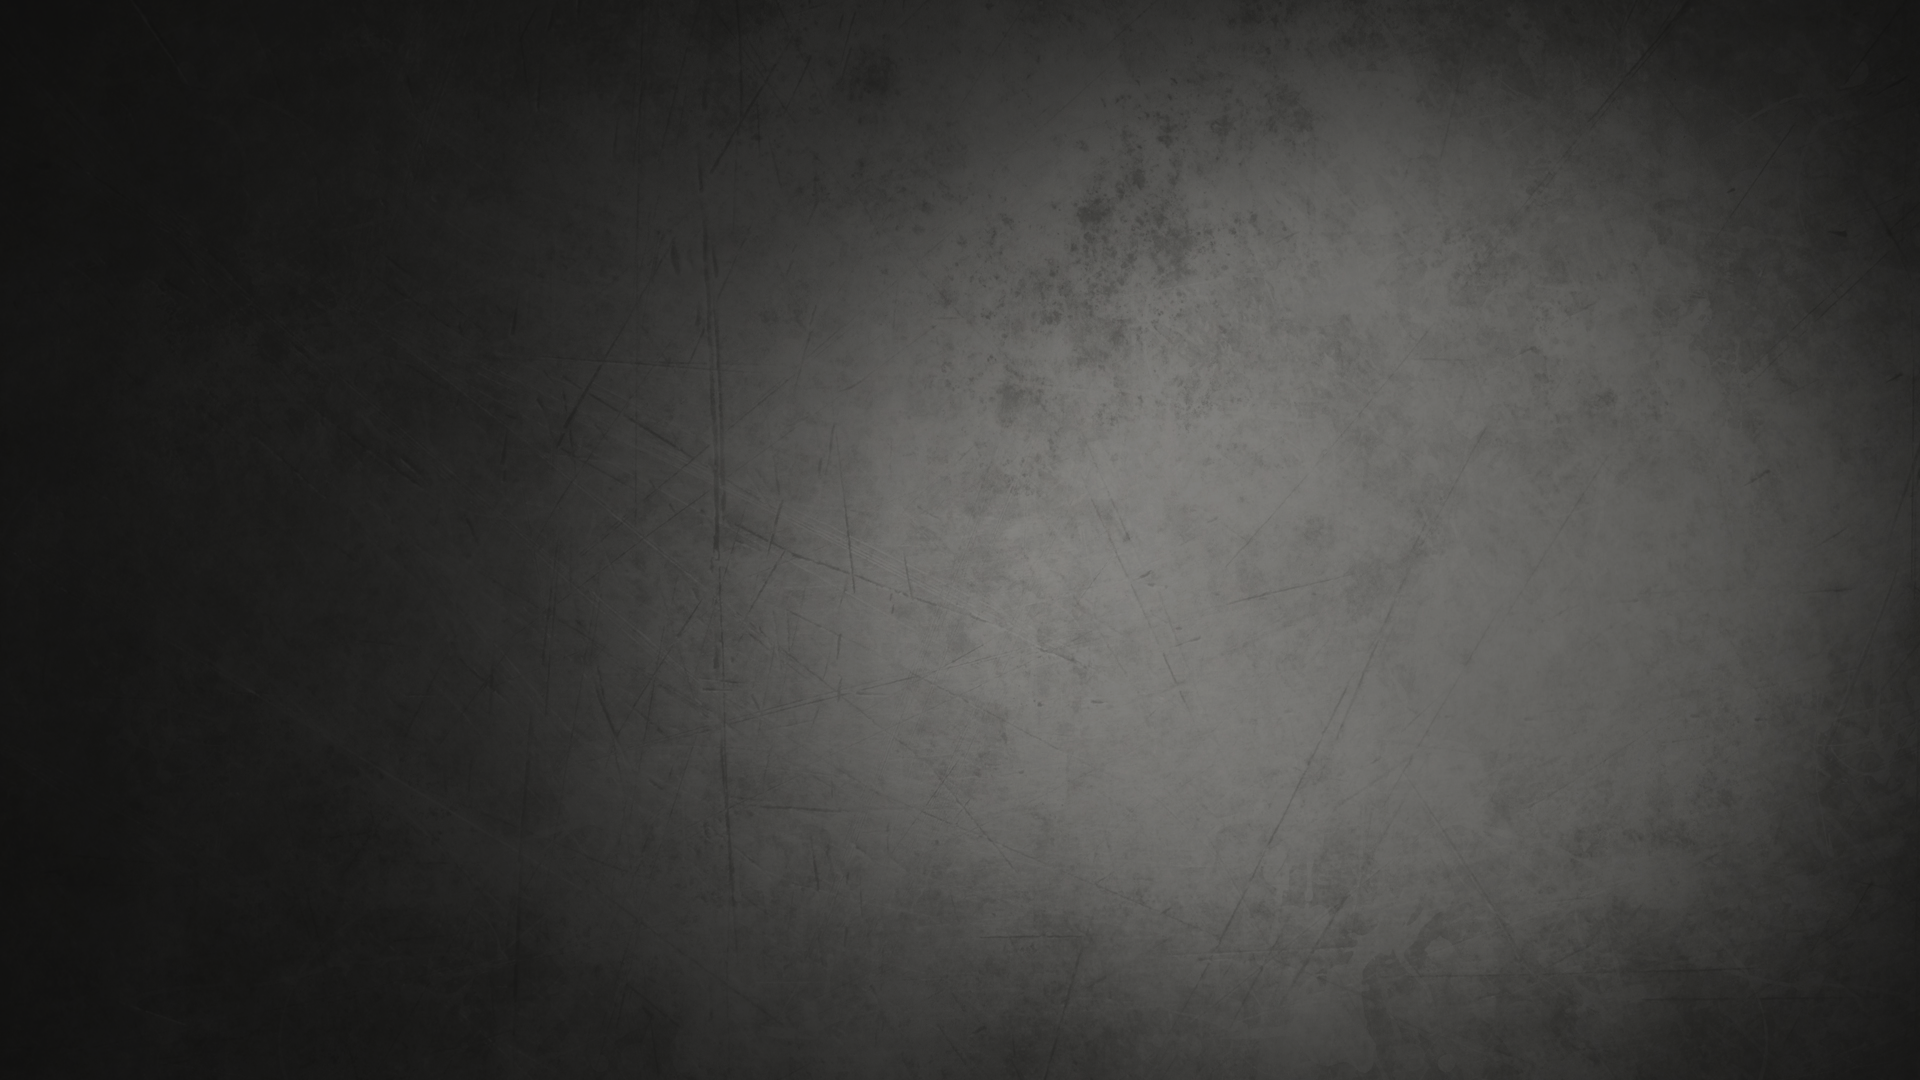
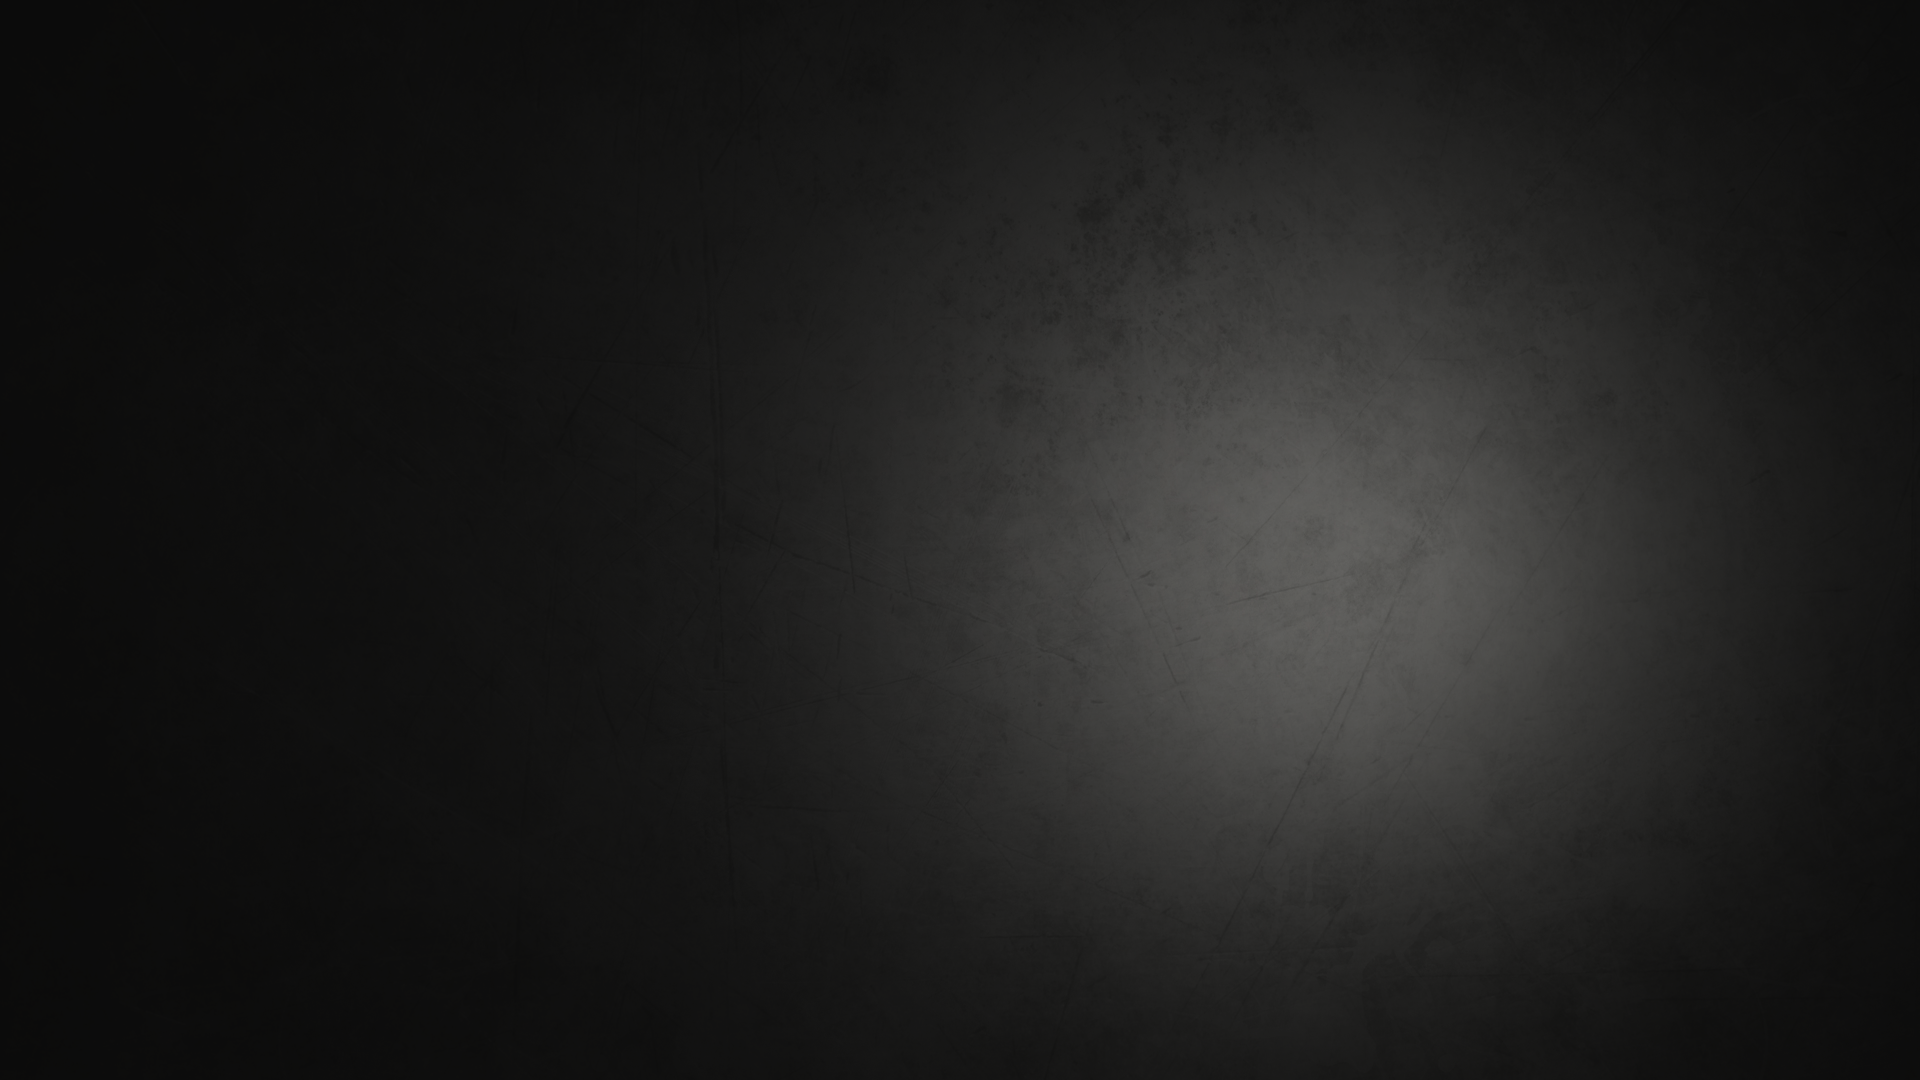
uploaded images

diff --git a/src/pages/Home.jsx b/src/pages/Home.jsx
@@ -1,29 +1,61 @@
 import React from 'react';
 
 import utik1 from '../assets/images/utik_1.png';
+import leg1 from '../assets/images/leg1.png';
 import logo from '../assets/images/logo2.png';
-import video from '../assets/video.mp4'
+import video from '../assets/video.mp4';
 
 export const Home = () => {
 	return (
 		<>
-			<section className='video-block'>
-				<img src={logo} alt="лого" />
-				<video className="video" src={video} autoPlay loop muted/>
+			<section className='device video-block'>
+				<img src={logo} alt='лого' />
+				<video className='video' src={video} autoPlay loop muted />
 			</section>
-			<section className='main-block'>
+			<section className='device iron-block'>
 				<div className='container'>
-					<div className='main-block__left'>
-						<h1>Умная гладильная система из Италии класса люкс</h1>
+					<div className='iron-block__left'>
+						<h1>
+							Гладильная система <b>Melia Gold</b>
+						</h1>
+						<p>
+							Это три прибора в одном: утюг, отпариватель для
+							одежды и гладильная доска. Гладильная доска с
+							функциями поддува и отвода пара, сенсорное
+							управление, давление пара – 6 Бар, классический
+							дизайн и оптимальная конструкция (в форме
+							передвижного столика на колесиках) – все это
+							гарантирует профессиональный результат глажения с
+							минимальными усилиями.
+						</p>
 						<button>Подробное</button>
 					</div>
-
-					<div className='main-block__right'>
+					<div className='iron-block__right'>
 						<img src={utik1} alt='утюг' />
 					</div>
 				</div>
 			</section>
-			<section className='back-massager'></section>
+			<section className='device leg-massager-block'>
+				<div className='container'>
+					<div className='leg-massager-block__left'>
+						<img src={leg1} alt='утюг' />
+					</div>
+					<div className='leg-massager-block__right'>
+						<h1>Массажер для ног</h1>
+						<p>
+							Это три прибора в одном: утюг, отпариватель для
+							одежды и гладильная доска. Гладильная доска с
+							функциями поддува и отвода пара, сенсорное
+							управление, давление пара – 6 Бар, классический
+							дизайн и оптимальная конструкция (в форме
+							передвижного столика на колесиках) – все это
+							гарантирует профессиональный результат глажения с
+							минимальными усилиями.
+						</p>
+						<button>Подробное</button>
+					</div>
+				</div>
+			</section>
 		</>
 	);
 };

diff --git a/src/style.scss b/src/style.scss
@@ -64,24 +64,24 @@ header {
 		left: 0;
 		right: 0;
 		bottom: 0;
-		background-color: rgba(0, 0, 0, 0.6);
+		background-color: rgba(0, 0, 0, 0.7);
 	}
 	video {
 		width: 100%;
 		height: 100vh;
 		object-fit: cover;
 	}
-	img { 
+	img {
 		position: absolute;
 		z-index: 10;
 		top: 50%;
 		left: 50%;
-		transform: translate(-50%,-50%);
-		width:50%;
+		transform: translate(-50%, -50%);
+		width: 50%;
 	}
 }
-.main-block {
-	background-image: url('./assets/images/03_back.png');
+.iron-block {
+	background-image: url('./assets/images/05_back.png');
 	height: 100vh;
 	background-size: cover;
 	background-repeat: no-repeat;
@@ -91,7 +91,7 @@ header {
 		display: flex;
 		align-items: center;
 		height: inherit;
-		.main-block__left {
+		.iron-block__left {
 			width: 50%;
 			h1 {
 				font-family: 'Akzidenz-Grotesk', sans-serif;
@@ -100,16 +100,22 @@ header {
 				font-weight: 900;
 				margin-top: -90px;
 			}
+			p {
+				letter-spacing: 0.3px;
+				font-size: 18px;
+				font-family: 'Akzidenz-Grotesk', sans-serif;
+			}
 			button {
 				padding: 13px 33px;
 				background: transparent;
 				color: white;
-				border: 1px solid #16faff;
+				border: 2px solid #16faff;
 				border-radius: 30px;
 				margin-top: 50px;
 			}
 		}
-		.main-block__right {
+		.iron-block__right {
+			width: 50%;
 			display: flex;
 			justify-content: right;
 			img {
@@ -118,4 +124,78 @@ header {
 			}
 		}
 	}
+}
+
+.leg-massager-block {
+	background-image: url('./assets/images/06_back.png');
+	height: 100vh;
+	background-size: cover;
+	background-repeat: no-repeat;
+	background-position: center center;
+
+	.container {
+		display: flex;
+		align-items: center;
+		height: inherit;
+		.leg-massager-block__left {
+			width: 50%;
+			display: flex;
+			justify-content: left;
+			img {
+				width: 70%;
+				filter: drop-shadow(8px 11px 8px hsla(0deg, 0%, 0%, 0.7));
+			}
+		}
+		.leg-massager-block__right {
+			width: 50%;
+			text-align: right;
+			h1 {
+				font-family: 'Akzidenz-Grotesk', sans-serif;
+				font-size: 48px;
+				line-height: 1.7;
+				font-weight: 900;
+				margin-top: -90px;
+			}
+			p {
+				letter-spacing: 0.3px;
+				font-size: 18px;
+				font-family: 'Akzidenz-Grotesk', sans-serif;
+			}
+			button {
+				padding: 13px 33px;
+				background: transparent;
+				color: white;
+				border: 2px solid #16faff;
+				border-radius: 30px;
+				margin-top: 50px;
+			}
+		}
+	}
+}
+.footer {
+	padding: 30px 0;
+	background-color: #232323;	
+	.col{
+		ul {
+			padding-left: 0;
+			margin-top: 15px;
+			display: flex;
+			li {
+				margin: 0 15px 10px 0;
+				.svg-inline--fa.fa-lg{
+					font-size:1.5em;
+				}
+			}
+		}
+	}
+	.contact{
+		ul{
+			display: block !important;
+			span{
+				margin-left:10px;
+			}
+		}
+	}
+	
+	
 }

diff --git a/src/components/Footer.jsx b/src/components/Footer.jsx
@@ -1,7 +1,88 @@
-import React from 'react'
+import React from 'react';
+import { Container, Row, Col } from 'react-bootstrap';
+import { FontAwesomeIcon } from '@fortawesome/react-fontawesome';
+import { faPhone, faEnvelope } from '@fortawesome/free-solid-svg-icons';
+import {
+	faFacebookF,
+	faInstagram,
+	faWhatsapp,
+} from '@fortawesome/free-brands-svg-icons';
 
 export const Footer = () => {
-  return (
-    <div>Footer - 2022</div>
-  )
-}
+	return (
+		<div className='footer'>
+			<Container>
+				<Row>
+					<Col>
+						<h4>Social websites</h4>
+						<div className='socialIcons'>
+							<ul>
+								<a
+									href='https://www.instagram.com/melia_kazakhstan/?igshid=1jdbrwo3e49sd'
+									target='_blank'
+								>
+									<li>
+										<FontAwesomeIcon
+											icon={faFacebookF}
+											size='lg'
+										/>
+									</li>
+								</a>
+								<a
+									href='https://www.instagram.com/melia_kazakhstan/?igshid=1jdbrwo3e49sd'
+									target='_blank'
+								>
+									<li>
+										<FontAwesomeIcon
+											icon={faInstagram}
+											size='lg'
+										/>
+									</li>
+								</a>
+								<a
+									href='https://web.whatsapp.com/send?phone=77073763659'
+									target='_blank'
+								>
+									<li>
+										<FontAwesomeIcon
+											icon={faWhatsapp}
+											size='lg'
+										/>
+									</li>
+								</a>
+							</ul>
+						</div>
+					</Col>
+					<Col className='contact'>
+						<h4>Contact</h4>
+						<ul>
+							<li>
+								<a href='tel:7071302100'>
+									<FontAwesomeIcon
+										icon={faPhone}
+										size='lg'
+										style={{fontSize: '1.5em'}}
+									/>
+									<span>+7 (707) 300-08-77</span>
+								</a>
+							</li>
+							<li>
+								<a href='mailto:meliaalmaty@gmail.com'>
+                <FontAwesomeIcon
+										icon={faEnvelope}
+										size='lg'
+										style
+									/>
+									<span> meliaalmaty@gmail.com</span>
+								</a>
+							</li>
+						</ul>
+					</Col>
+					<Col>
+						<h4>Address</h4>
+					</Col>
+				</Row>
+			</Container>
+		</div>
+	);
+};
